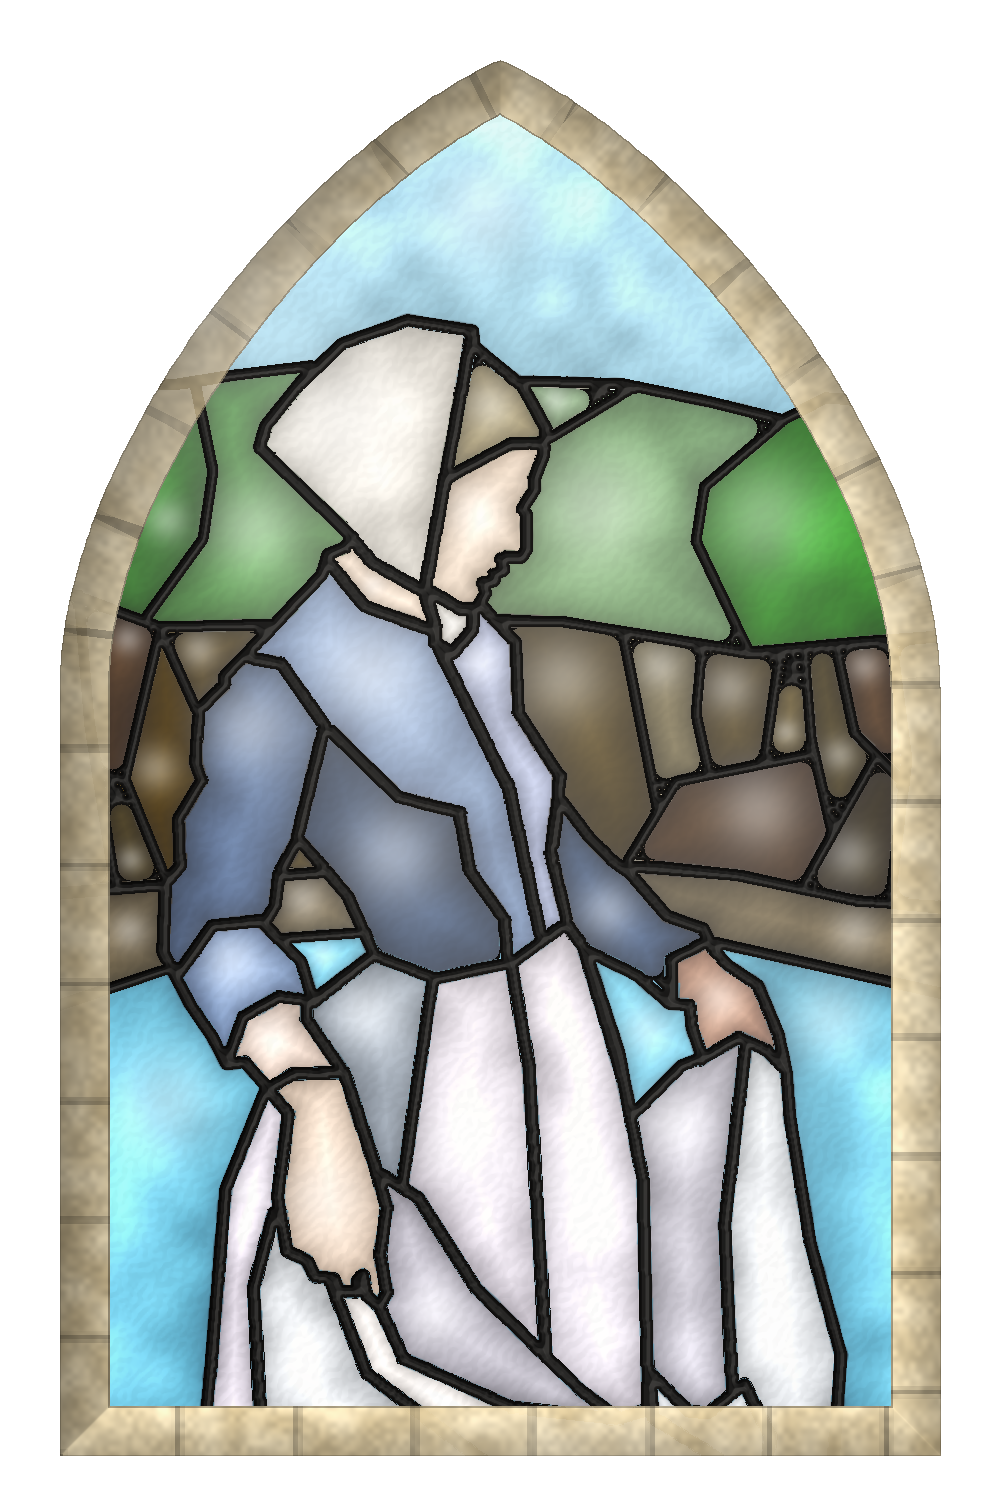
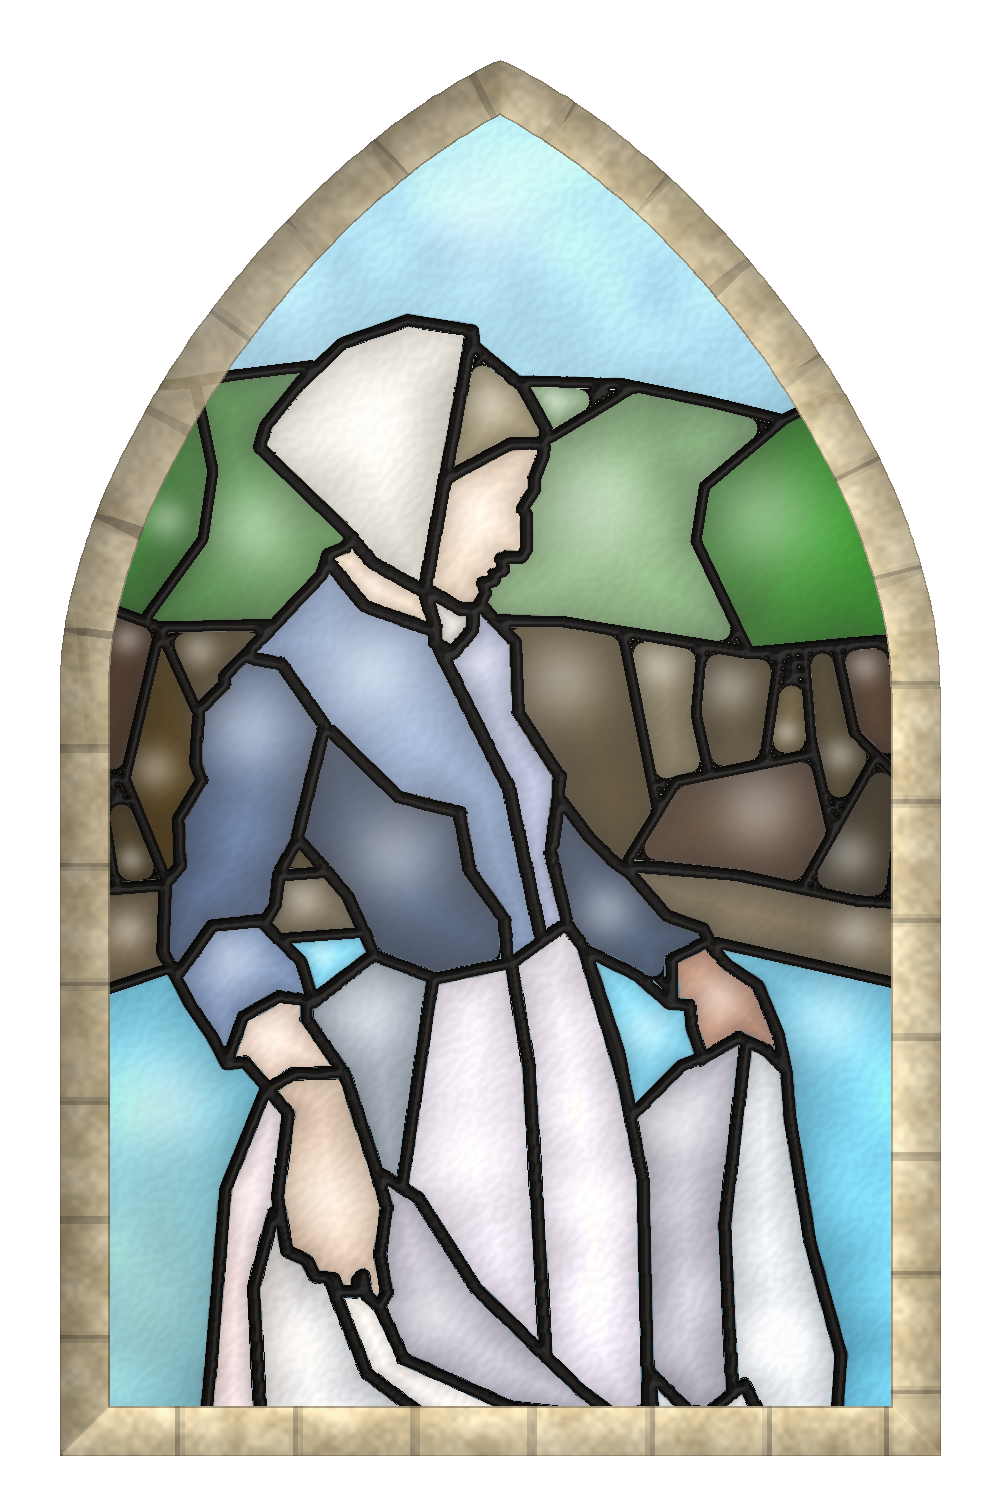
Slayer and other portrait updates

diff --git a/src/lib/textureVars.ts b/src/lib/textureVars.ts
@@ -2,14 +2,18 @@ import { base } from '$app/paths';
 import type { ScriptTheme } from './scriptTheme';
 
 /**
- * app.css defines --altar-tex/--stone-tex/--parchment-tex/--wood-tex/
- * --redstone-tex as CSS custom properties with hardcoded root-relative
- * url('/textures/...') values, once per [data-theme]/[data-script-theme]
- * combination. That's fine for a deploy at the domain root (Vercel,
- * self-hosted, a custom domain) but breaks on a GitHub Pages *project*
- * page, served from /reponame/ — CSS url() values aren't something
- * SvelteKit's router or its `base` path can rewrite, unlike a Svelte
- * component's own href/src attributes.
+ * app.css defines --stone-tex/--parchment-tex/--wood-tex/--redstone-tex as
+ * CSS custom properties with hardcoded root-relative url('/textures/...')
+ * values, once per [data-theme]/[data-script-theme] combination -- plus
+ * --altar-tex-gothic/--altar-tex-lovecraft, which exist in BOTH variants
+ * regardless of [data-script-theme] (Avatar.svelte picks between them per
+ * character, not from the page's global theme -- a page mixing characters
+ * from both scripts, e.g. a Storyteller reference view, needs each
+ * avatar's own brick to follow ITS OWN script). That's fine for a deploy
+ * at the domain root (Vercel, self-hosted, a custom domain) but breaks on
+ * a GitHub Pages *project* page, served from /reponame/ — CSS url()
+ * values aren't something SvelteKit's router or its `base` path can
+ * rewrite, unlike a Svelte component's own href/src attributes.
  *
  * Fix: re-set these same properties from JS, inline on <html>, with the
  * correct `base` prefix baked in — inline style always wins over a
@@ -56,7 +60,10 @@ function apply() {
 	const files = FILES[scriptTheme][mode];
 	const style = document.documentElement.style;
 	const url = (name: string) => `url('${base}/textures/${name}')`;
-	style.setProperty('--altar-tex', url(files.altar));
+	// Both script variants, always -- see the module doc for why this
+	// can't just follow the page's current `scriptTheme` like the rest.
+	style.setProperty('--altar-tex-gothic', url(FILES.gothic[mode].altar));
+	style.setProperty('--altar-tex-lovecraft', url(FILES.lovecraft[mode].altar));
 	style.setProperty('--stone-tex', url(files.stone));
 	style.setProperty('--parchment-tex', url(files.parchment));
 	// Constant across every theme/mode today, but still routed through the

diff --git a/src/lib/components/Avatar.svelte b/src/lib/components/Avatar.svelte
@@ -32,6 +32,14 @@
 	// share the same Gothic arch clip shape -- only the overlay decoration
 	// differs.
 	const frame = $derived(frameForCharacter(characterId));
+	// Which of the two always-both-defined --altar-tex-{gothic,lovecraft}
+	// custom properties (src/app.css, src/lib/textureVars.ts) this
+	// character's own altar strip uses -- picked from `frame`, same as the
+	// candle/skull art below, NOT from the page's global [data-script-theme]
+	// (a page mixing characters from both scripts, e.g. a Storyteller
+	// reference view, needs each avatar's brick to follow its own
+	// character, exactly like the candle/skull overlay already does).
+	const altarTexVar = $derived(frame === 'lovecraft' ? '--altar-tex-lovecraft' : '--altar-tex-gothic');
 	const sigilRay = sigilRayPoints(ELDRITCH_SIGIL_CENTER.cx, ELDRITCH_SIGIL_CENTER.cy);
 	const ring = sigilRing(ELDRITCH_SIGIL_CENTER.cx, ELDRITCH_SIGIL_CENTER.cy);
 	$effect(() => {
@@ -90,7 +98,7 @@
 		<span
 			class="altar-strip"
 			style="height: {ALTAR_STRIP_HEIGHT}%; clip-path: polygon({ALTAR_STRIP_TOP_INSET}% 0%, {100 -
-				ALTAR_STRIP_TOP_INSET}% 0%, 100% 100%, 0% 100%);"
+				ALTAR_STRIP_TOP_INSET}% 0%, 100% 100%, 0% 100%); --altar-tex: var({altarTexVar});"
 		></span>
 
 		<!--
@@ -213,8 +221,12 @@
 	/*
 	 * Altar strip -- a short brick-textured shelf spanning the window's
 	 * width (see candleDeco.ts's ALTAR_STRIP_HEIGHT/ALTAR_STRIP_TOP_INSET
-	 * for the trapezoid taper). --altar-tex is a per-script/per-theme
-	 * token (src/app.css), same convention as --stone-tex/--parchment-tex.
+	 * for the trapezoid taper). --altar-tex here is set inline per
+	 * instance from altarTexVar above (picking --altar-tex-gothic or
+	 * --altar-tex-lovecraft, both always defined in src/app.css /
+	 * src/lib/textureVars.ts) rather than read as a page-global token --
+	 * this element's own character decides its brick, same as the
+	 * candle/skull art below, not the page's current [data-script-theme].
 	 * A soft top-edge highlight plus a bottom shadow gives the thin strip
 	 * a little shelf-like depth rather than reading as a flat decal.
 	 */

diff --git a/src/app.css b/src/app.css
@@ -41,7 +41,8 @@
 	 * stays green under the lovecraft theme below, while this one needs to
 	 * go blue there for the black-wax/blue-flame candles. */
 	--candle-glow: 255, 150, 50;
-	--altar-tex: url('/textures/altar-brick.jpg');
+	--altar-tex-gothic: url('/textures/altar-brick.jpg');
+	--altar-tex-lovecraft: url('/textures/altar-brick-lovecraft.jpg');
 	--stone-tex: url('/textures/limestone.jpg');
 	--parchment-tex: url('/textures/parchment.jpg');
 	--wood-tex: url('/textures/oak.jpg');
@@ -78,7 +79,8 @@
 	--lead: #1a1712;
 	--gilt-glow: 255, 189, 110;
 	--candle-glow: 255, 170, 70;
-	--altar-tex: url('/textures/altar-brick-night.jpg');
+	--altar-tex-gothic: url('/textures/altar-brick-night.jpg');
+	--altar-tex-lovecraft: url('/textures/altar-brick-lovecraft-night.jpg');
 
 	/* The day textures above were being silently reused here too -- at
 	 * normal opacity the near-black night gradient on `body` just painted
@@ -147,7 +149,6 @@
 	 * black eith a bluish flame" -- the candle glow goes blue here while
 	 * --gilt-glow (a separate, unrelated UI-highlight colour) stays green. */
 	--candle-glow: 70, 150, 255;
-	--altar-tex: url('/textures/altar-brick-lovecraft.jpg');
 	--stone-tex: url('/textures/warded-damask.jpg');
 	--parchment-tex: url('/textures/old-leather.jpg');
 
@@ -177,7 +178,6 @@
 	--lead: #0e0807;
 	--gilt-glow: 130, 200, 156;
 	--candle-glow: 100, 180, 255;
-	--altar-tex: url('/textures/altar-brick-lovecraft-night.jpg');
 	--stone-tex: url('/textures/warded-damask-night.jpg');
 	--parchment-tex: url('/textures/old-leather-night.jpg');
 

diff --git a/scripts/process_altar_art.py b/scripts/process_altar_art.py
@@ -14,14 +14,17 @@ Three things it does, in order:
      margin, but flush with the canvas edge wherever the art already
      touches it -- the candles are meant to sit flush with the bottom of
      the overlay, so their crop keeps that edge exact).
-  2. Recolours the candle art for Laissez un Faire. The wax and the flame
-     in the source painting share almost the same warm hue (~44 degrees)
-     -- candlelight reflecting off cream wax paints it the same colour as
-     the flame itself -- so a hue-based split doesn't work. Saturation and
-     value do: the flame is the small, highly-saturated/bright region,
-     everything else is wax/shadow. Blends between a cool near-black
-     target (wax) and a blue-cyan target (flame) by that saturation/value
-     "flameness", not a hard mask, so the transition stays soft.
+  2. Recolours the candle art for Laissez un Faire -- flame only. Mickey:
+     "the candles are black for the lovecraft theme, make them default but
+     with blue flames" -- so the wax now stays exactly as painted (no hue/
+     sat/value change at all) and only the flame shifts to blue-cyan. The
+     flame region itself is still found the same way as the earlier black-
+     wax version: the wax and the flame in the source painting share
+     almost the same warm hue (~44 degrees) -- candlelight reflecting off
+     cream wax paints it the same colour as the flame itself -- so a hue-
+     based split doesn't work, but saturation/value do (the flame is the
+     small, highly-saturated/bright region). Blended by that "flameness"
+     factor, not a hard mask, so the transition stays soft.
   3. Locates the flame tips in the (cropped, un-recoloured) candle art, for
      Avatar.svelte's CANDLE_GLOW_CENTER constant in candleDeco.ts -- the
      centre of the animated ambient glow "between the candle and the
@@ -96,8 +99,9 @@ def tight_crop(im: Image.Image, pad=6, bottom_flush=True) -> Image.Image:
 
 
 def recolor_to_lovecraft(im: Image.Image) -> Image.Image:
-    """Black wax (cool charcoal, subtle sheen) + blue flame -- see the
-    module docstring for why this is driven by saturation/value, not hue."""
+    """Wax stays exactly as painted; only the flame shifts to blue-cyan --
+    see the module docstring for why the flame region is found via
+    saturation/value, not hue."""
     arr = np.asarray(im).astype(np.float64) / 255.0
     rgb = arr[..., :3]
     alpha = arr[..., 3:4]
@@ -106,17 +110,16 @@ def recolor_to_lovecraft(im: Image.Image) -> Image.Image:
 
     flameness = smoothstep(s, 0.40, 0.60) * smoothstep(v, 0.55, 0.75)
 
-    wax_v = 0.16 + v * 0.30
-    wax_s = 0.12 + (v * 0.08)
-    wax_h = np.full_like(h, 220.0 / 360.0)
-
     flame_v = np.clip(v * 1.05, 0, 1)
     flame_s = np.clip(s * 1.05 + 0.05, 0, 1)
     flame_h = np.full_like(h, 205.0 / 360.0)
 
-    out_h = wax_h * (1 - flameness) + flame_h * flameness
-    out_s = wax_s * (1 - flameness) + flame_s * flameness
-    out_v = wax_v * (1 - flameness) + flame_v * flameness
+    # At flameness == 0 this is exactly (h, s, v) -- the original wax,
+    # untouched. Only pixels the flame mask actually pulls toward the blue
+    # target move at all.
+    out_h = h * (1 - flameness) + flame_h * flameness
+    out_s = s * (1 - flameness) + flame_s * flameness
+    out_v = v * (1 - flameness) + flame_v * flameness
 
     out_rgb = hsv_to_rgb_arr(np.stack([out_h, out_s, out_v], axis=-1))
     out = np.concatenate([out_rgb, alpha], axis=-1)

diff --git a/scripts/publish_avatars.py b/scripts/publish_avatars.py
@@ -1,0 +1,90 @@
+#!/usr/bin/env python3
+"""
+publish_avatars.py -- runs every character with a painted source through
+stained_glass.py and writes the result straight to static/avatars/<id>.png,
+the actual files the running app serves (Avatar.svelte's `src`).
+
+Until now that step was manual and easy to fall behind on -- reusing
+review_portraits.py's own find_source()/load_characters() surfaced four
+characters with a painting in design/ but no static/avatars/ file at all
+(investigator, virgin, slayer, soldier -- Mickey specifically asked why
+Soldier wasn't showing up; this is why). Also the one place that actually
+applies review_portraits.py's tuned stained-glass settings (reflection
+turned down, the new candle-tinted glint) to the files the app serves,
+rather than only to the design/portraits-review.png preview grid.
+
+Uses the exact same effect settings as review_portraits.py's own CLI
+defaults, so the preview grid and the shipped avatars never drift apart --
+update BOTH files together if either one's defaults change.
+
+Usage:
+    python3 scripts/publish_avatars.py            # every character with art
+    python3 scripts/publish_avatars.py soldier virgin slayer investigator
+"""
+import sys
+import tempfile
+import os
+from pathlib import Path
+
+sys.path.insert(0, str(Path(__file__).resolve().parent))
+from review_portraits import load_characters, find_source  # noqa: E402
+from stained_glass import stained_glass  # noqa: E402
+from PIL import Image  # noqa: E402
+
+ROOT = Path(__file__).resolve().parent.parent
+AVATARS_DIR = ROOT / "static" / "avatars"
+
+# Kept in sync with review_portraits.py's own argparse defaults by hand --
+# see that file's main() if these two ever need to be reconciled.
+EFFECT_KWARGS = dict(
+    strength="medium",
+    light_strength=0.24,
+    backlight_warmth=0.5,
+    reflect_strength=0.12,
+    pane_sparkle_strength=0.35,
+    candle_glint_strength=0.24,
+    bevel_strength=0.5,
+    texture_strength=0.15,
+    texture_warp_px=0.5,
+    dark_pane_floor=40.0,
+    border=True,
+)
+
+
+def save_atomic(image: Image.Image, out_path: Path) -> None:
+    out_path.parent.mkdir(parents=True, exist_ok=True)
+    fd, tmp_name = tempfile.mkstemp(suffix=".png", dir=str(out_path.parent))
+    os.close(fd)
+    tmp_path = Path(tmp_name)
+    try:
+        image.save(tmp_path)
+        os.replace(tmp_path, out_path)
+    except Exception:
+        tmp_path.unlink(missing_ok=True)
+        raise
+
+
+def main():
+    only = set(sys.argv[1:]) or None
+    chars = load_characters()
+    published, skipped = [], []
+    for c in chars:
+        if only and c["id"] not in only:
+            continue
+        source = find_source(c["id"], c["name"])
+        if source is None:
+            skipped.append(c["id"])
+            continue
+        with Image.open(source) as raw:
+            avatar = stained_glass(raw, **EFFECT_KWARGS)
+        out_path = AVATARS_DIR / f"{c['id']}.png"
+        save_atomic(avatar, out_path)
+        published.append(c["id"])
+        print(f"published {out_path} ({avatar.size[0]}x{avatar.size[1]})")
+
+    print(f"\n{len(published)} published, {len(skipped)} skipped (no source painting yet): "
+          f"{', '.join(skipped) if skipped else '(none)'}")
+
+
+if __name__ == "__main__":
+    main()

diff --git a/scripts/review_portraits.py b/scripts/review_portraits.py
@@ -227,11 +227,12 @@ def main():
     ap.add_argument("--line-contrast-min", type=float, default=16.0)
     ap.add_argument("--line-max-halfwidth", type=float, default=11.0)
     ap.add_argument("--pane-sparkle-strength", type=float, default=0.35)
-    ap.add_argument("--candle-glint-strength", type=float, default=0.16,
-                     help="a very small extra highlight low on the window's left side, tinted "
-                          "warm gold like the candle overlay that sits just outside the frame "
-                          "there -- Mickey's \"another very small reflection on the panels that "
-                          "reflects the candle light\"; 0 disables")
+    ap.add_argument("--candle-glint-strength", type=float, default=0.24,
+                     help="a small extra highlight low on the window's left side, tinted warm "
+                          "gold like the candle overlay that sits just outside the frame there "
+                          "-- Mickey's \"another very small reflection on the panels that "
+                          "reflects the candle light\", nudged up once from 0.16 per \"make the "
+                          "candle reflection a bit more\"; 0 disables")
     ap.add_argument("--bevel-strength", type=float, default=0.5)
     ap.add_argument("--texture-strength", type=float, default=0.15)
     ap.add_argument("--texture-warp-px", type=float, default=0.5)
